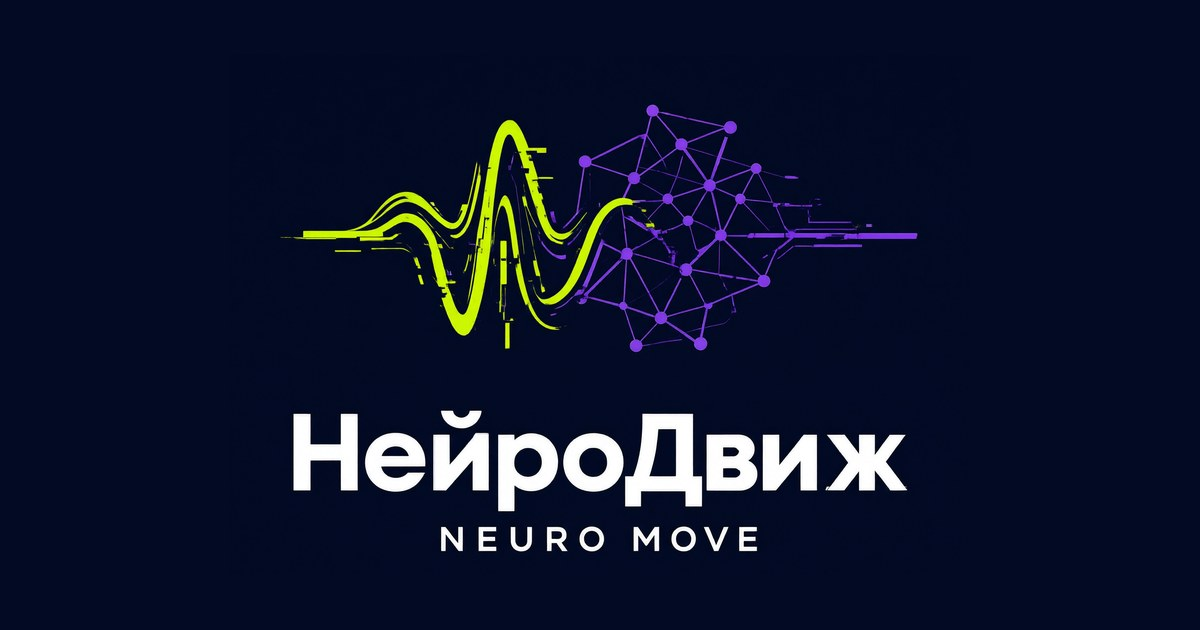
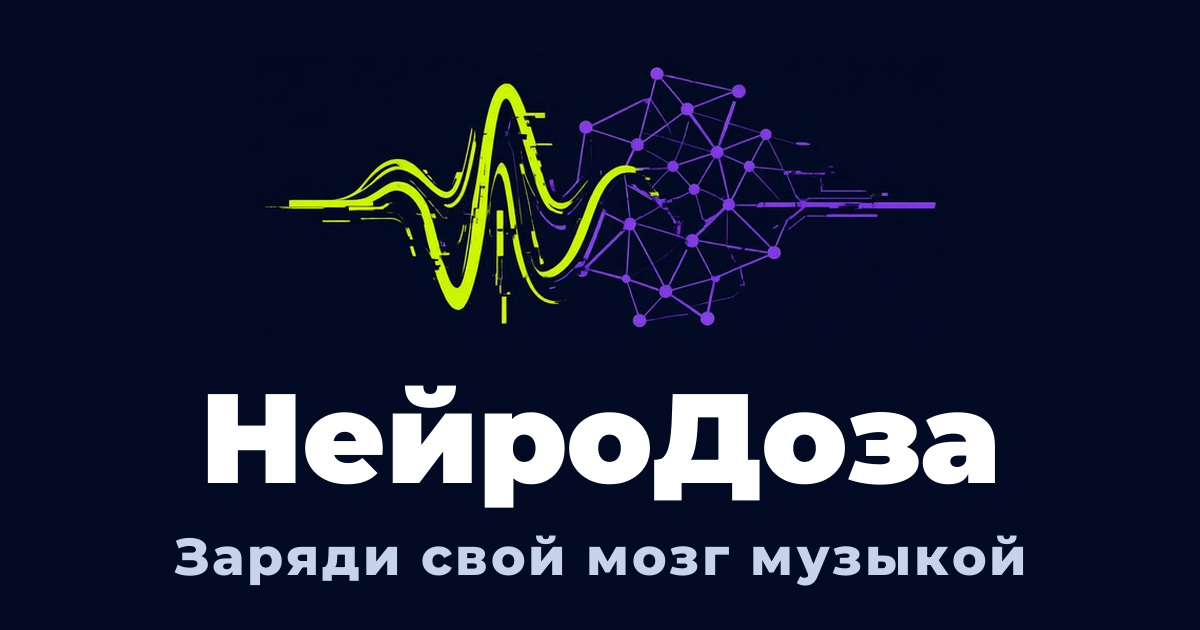
Ребрендинг: НейроДоза — «Заряди свой мозг музыкой»
- Имя сайта НейроДвиж → НейроДоза везде: title, description, og:title, og:description,
  apple-mobile-web-app-title, шапка, название альбома в Media Session, заголовок вкладки
- Слоган «Коллекция музыки по жанрам» → «Заряди свой мозг музыкой»
- manifest.json: name, short_name, description
- Перерисованы assets/og-cover.jpg и assets/logo-full.jpg: та же эмблема,
  новое имя и слоган, латинская подпись убрана
- Иконки (icon-192/512, apple-touch-icon, favicon) не менялись
- Технические ключи soundwave_* и адрес Firebase не тронуты — лайки и избранное сохранены

Changed region(s): [[0.1233, 0.6032, 0.8633, 0.9349], [0.2158, 0.0905, 0.8017, 0.573]]

diff --git a/music_website/index.html b/music_website/index.html
@@ -3,16 +3,16 @@
 <head>
   <meta charset="UTF-8" />
   <meta name="viewport" content="width=device-width, initial-scale=1.0, viewport-fit=cover" />
-  <title>НейроДвиж</title>
-  <meta name="description" content="НейроДвиж — слушайте треки по жанрам: Шансон, Диско, ДипХаус, Русская Поп-музыка и Разное. Ставьте лайки и оставляйте комментарии." />
-  <meta property="og:title" content="НейроДвиж" />
-  <meta property="og:description" content="Коллекция музыки по жанрам с плеером, обложками, избранным и комментариями." />
+  <title>НейроДоза</title>
+  <meta name="description" content="НейроДоза — заряди свой мозг музыкой: треки по жанрам — Шансон, ЕвроДиско, ДискоДача, ДипХаус, Русская Поп-музыка и Разное. Ставьте лайки и оставляйте комментарии." />
+  <meta property="og:title" content="НейроДоза" />
+  <meta property="og:description" content="Заряди свой мозг музыкой — коллекция треков по жанрам с плеером, обложками, избранным и комментариями." />
   <meta property="og:type" content="website" />
   <meta name="theme-color" content="#070912" />
   <meta name="mobile-web-app-capable" content="yes" />
   <meta name="apple-mobile-web-app-capable" content="yes" />
   <meta name="apple-mobile-web-app-status-bar-style" content="black-translucent" />
-  <meta name="apple-mobile-web-app-title" content="НейроДвиж" />
+  <meta name="apple-mobile-web-app-title" content="НейроДоза" />
   <link rel="manifest" href="manifest.json" />
   <link rel="icon" href="favicon.ico" sizes="any" />
   <link rel="icon" type="image/png" sizes="32x32" href="favicon-32.png" />
@@ -23,7 +23,7 @@
   <meta property="og:image:height" content="630" />
   <meta name="twitter:card" content="summary_large_image" />
   <meta name="twitter:image" content="assets/og-cover.jpg" />
-  <link rel="stylesheet" href="style.css?v=20261127i" />
+  <link rel="stylesheet" href="style.css?v=20261127j" />
 </head>
 <body>
   <!-- Чистый полноэкранный чёрно-белый фон с поющим дуэтом и падающим снегом -->
@@ -40,8 +40,8 @@
           <img src="assets/logo-icon.png" alt="" width="44" height="44" />
         </div>
         <div>
-          <h1 class="brand-title">НейроДвиж</h1>
-          <p class="brand-subtitle" id="modeBadge">Коллекция музыки по жанрам</p>
+          <h1 class="brand-title">НейроДоза</h1>
+          <p class="brand-subtitle" id="modeBadge">Заряди свой мозг музыкой</p>
         </div>
       </div>
 
@@ -573,7 +573,7 @@
         <p class="owner-token-status" id="ownerTokenStatus" aria-live="polite"></p>
         <p class="owner-token-hint" id="ownerTokenHint">
           Токен нужен только для удаления песен на GitHub Pages. Создать:
-          <a href="https://github.com/settings/tokens/new?scopes=repo&description=НейроДвиж" target="_blank" rel="noopener">Settings → Developer settings → Tokens (classic)</a>,
+          <a href="https://github.com/settings/tokens/new?scopes=repo&description=НейроДоза" target="_blank" rel="noopener">Settings → Developer settings → Tokens (classic)</a>,
           галочка <code>repo</code>. Токен не сохраняется в коде сайта.
         </p>
       </div>
@@ -660,6 +660,6 @@
   <div class="toast-container" id="toastContainer" aria-live="polite"></div>
 
   <audio id="audioPlayer" preload="metadata" crossorigin="anonymous" controlsList="nodownload"></audio>
-  <script src="script.js?v=20261127i"></script>
+  <script src="script.js?v=20261127j"></script>
 </body>
 </html>

diff --git a/music_website/script.js b/music_website/script.js
@@ -2094,7 +2094,7 @@ function syncOwnerTokenUI() {
     ownerTokenHint.innerHTML = token
       ? "Токен сохранён в этом браузере — кнопки удаления работают. Чтобы стереть, нажмите «Забыть»."
       : `Токен нужен только для удаления песен на GitHub Pages. Создать:
-         <a href="https://github.com/settings/tokens/new?scopes=repo&description=НейроДвиж" target="_blank" rel="noopener">Settings → Developer settings → Tokens (classic)</a>,
+         <a href="https://github.com/settings/tokens/new?scopes=repo&description=НейроДоза" target="_blank" rel="noopener">Settings → Developer settings → Tokens (classic)</a>,
          галочка <code>repo</code>. Токен не сохраняется в коде сайта.`;
   }
 }
@@ -2590,7 +2590,7 @@ renameTrackForm?.addEventListener("submit", async (e) => {
     renderTracks();
     updatePlayerUI();
     if (state.currentTrackId === track.id) {
-      document.title = `${title} — НейроДвиж`;
+      document.title = `${title} — НейроДоза`;
     }
 
     setRenameProgress("Готово — название сохранено.", "ok");
@@ -2797,7 +2797,7 @@ async function loadTracksFromServer(notify = false) {
     if (Array.isArray(data.tracks)) {
       state.serverMode = true;
       state.tracks = data.tracks;
-      modeBadge.textContent = "Коллекция музыки по жанрам";
+      modeBadge.textContent = "Заряди свой мозг музыкой";
       rescanBtn.classList.remove("hidden");
       syncOwnerControls();
       await loadSocialData();
@@ -2809,7 +2809,7 @@ async function loadTracksFromServer(notify = false) {
     }
   } catch {
     state.serverMode = false;
-    modeBadge.textContent = "Коллекция музыки по жанрам";
+    modeBadge.textContent = "Заряди свой мозг музыкой";
     rescanBtn.classList.remove("hidden");
     syncOwnerControls();
 
@@ -2835,7 +2835,7 @@ async function loadTracksFromServer(notify = false) {
     );
     if (emptyGenres.length > 0) {
       console.info(
-        "[НейроДвиж] Жанры без треков:",
+        "[НейроДоза] Жанры без треков:",
         emptyGenres.join(", "),
         "— проверьте, что tracks.json пересобран (build_tracks_index.py) и запушен"
       );
@@ -2851,7 +2851,7 @@ async function loadTracksFromServer(notify = false) {
     );
     if (stillEmpty.length > 0) {
       console.warn(
-        "[НейроДвиж] Песни этих жанров не загрузились (tracks.json устарел, GitHub API недоступен):",
+        "[НейроДоза] Песни этих жанров не загрузились (tracks.json устарел, GitHub API недоступен):",
         stillEmpty.join(", ")
       );
     }
@@ -3523,7 +3523,7 @@ function updateMediaSession(track) {
     navigator.mediaSession.metadata = new MediaMetadata({
       title: track.title,
       artist: `${track.artist} · ${genreInfo.label}`,
-      album: "НейроДвиж",
+      album: "НейроДоза",
       artwork,
     });
     navigator.mediaSession.playbackState = state.isPlaying ? "playing" : "paused";

diff --git a/music_website/style.css b/music_website/style.css
@@ -198,7 +198,7 @@ body.music-playing .aurora-photo {
   gap: 14px;
 }
 
-/* Логотип «НейроДвиж» — жёлтая волна + фиолетовая нейросеть на синей плашке */
+/* Логотип «НейроДоза» — жёлтая волна + фиолетовая нейросеть на синей плашке */
 .brand-logo {
   position: relative;
   width: 46px;

diff --git a/music_website/server.py b/music_website/server.py
@@ -1,6 +1,6 @@
 #!/usr/bin/env python3
 """
-Локальный сервер для сайта «НейроДвиж» (music_website).
+Локальный сервер для сайта «НейроДоза» (music_website).
 - Автоматически сканирует папки tracks/chanson, disco, discodacha, deephouse, ruspop, other
 - Отдаёт /api/tracks с метаданными и обложками и синхронизирует tracks/tracks.json
 - Поддерживает загрузку треков (POST /api/upload) и обложек (POST /api/cover) прямо в tracks/
@@ -597,7 +597,7 @@ def main():
     port = int(os.environ.get("PORT", "8000"))
     ThreadingHTTPServer.allow_reuse_address = True
     server = ThreadingHTTPServer(("0.0.0.0", port), MusicRequestHandler)
-    print(f"Сервер «НейроДвиж» запущен на http://0.0.0.0:{port}", flush=True)
+    print(f"Сервер «НейроДоза» запущен на http://0.0.0.0:{port}", flush=True)
     try:
         server.serve_forever()
     except KeyboardInterrupt:
